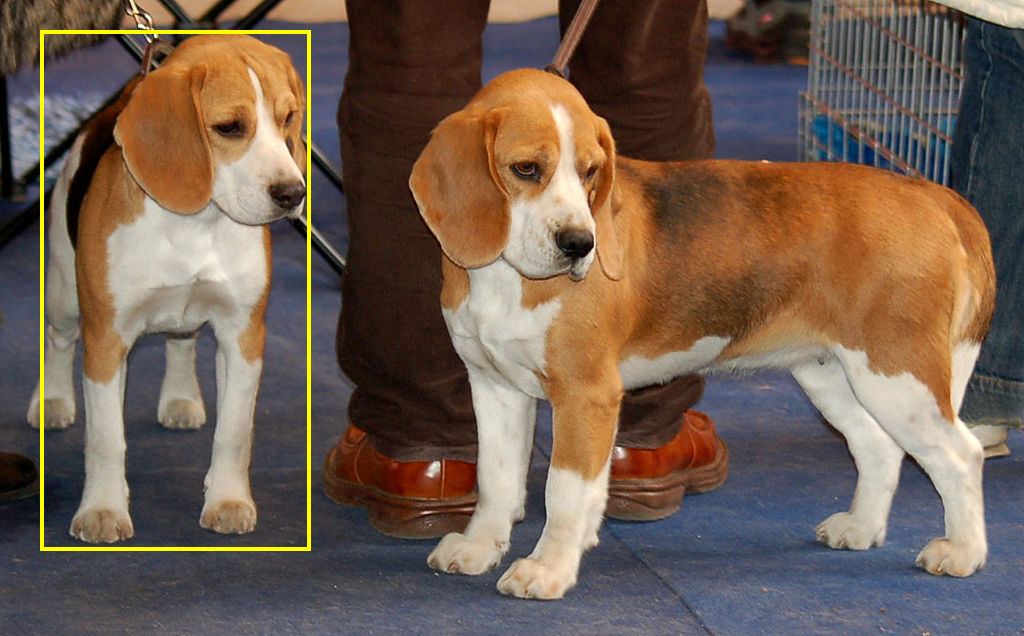
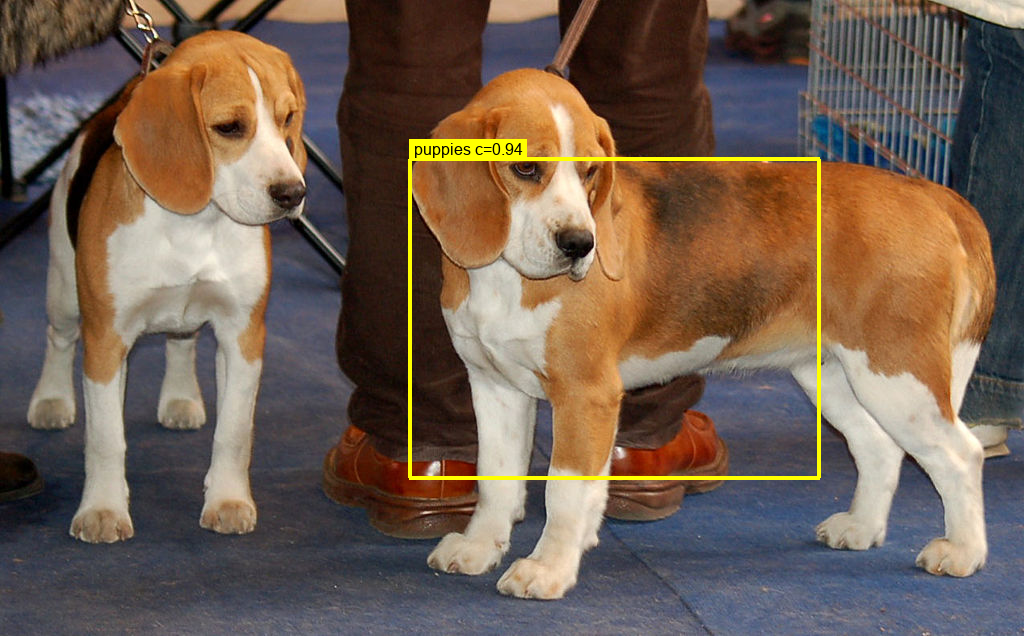
wip

Changed region(s): [[0.0312, 0.0299, 0.3125, 0.8664], [0.375, 0.2091, 0.8125, 0.7767]]

diff --git a/playground/visualization_utils_test.py b/playground/visualization_utils_test.py
@@ -18,11 +18,13 @@ import logging
 import os
 
 import numpy as np
-import PIL.Image as Image
+#import PIL.Image as Image
 import tensorflow as tf
 
-from object_detection.core import standard_fields as fields
-from object_detection.utils import visualization_utils
+#from object_detection.core import standard_fields as fields
+#from object_detection.utils import visualization_utils
+
+import visualization_utils
 
 #_TESTDATA_PATH = 'object_detection/test_images'
 _TESTDATA_PATH = '.'
@@ -48,9 +50,6 @@ class VisualizationUtilsTest(tf.test.TestCase):
     imu = np.concatenate((imr, img), axis=1)
     imd = np.concatenate((imb, imw), axis=1)
     image = np.concatenate((imu, imd), axis=0)
-
-
-
     return image
 
   def create_test_image_with_five_channels(self):
@@ -306,19 +305,39 @@ class VisualizationUtilsTest(tf.test.TestCase):
 
 
 if __name__ == '__main__':
+
     from PIL import Image, ImageFont, ImageDraw, ImageEnhance
+    from subprocess import Popen, PIPE
 
     file_name = "image1.jpg"
     print("reading", file_name)
-    source_img = Image.open(file_name).convert("RGB")
+    img = Image.open(file_name).convert("RGB")
 
-    draw = ImageDraw.Draw(source_img)
+    # draw = ImageDraw.Draw(img)
+    # draw.rectangle(((40, 30), (310, 550)), outline="yellow", width=4)
+    # draw.text((40, 5), "puppies", font=ImageFont.truetype("Arial", 24))
 
-    draw.rectangle(((40, 30), (310, 550)), outline="yellow", width=4)
-    # draw.text((20, 70), "something123", font=ImageFont.truetype("font_path123"))
-    #
+    #test_image = create_colorful_test_image()
+    #test_image = Image.fromarray(test_image)
+
+    width_original, height_original = img.size
+
+    ymin = 0.25
+    ymax = 0.75
+
+    xmin = 0.4
+    xmax = 0.8
+
+    visualization_utils.draw_bounding_box_on_image(img, ymin, xmin, ymax, xmax,
+       display_str_list=[" puppies c=0.94 "])
+
     out_file = "image1.png"
     print("writing", out_file)
-    source_img.save(out_file, "PNG")
+    img.save(out_file, "PNG")
+    Popen(['open', out_file])
+
 
   #tf.test.main()
+
+    # process = Popen(['open', out_file], stdout=PIPE, stderr=PIPE)
+    # stdout, stderr = process.communicate()

diff --git a/playground/visualization_utils.py b/playground/visualization_utils.py
@@ -135,7 +135,7 @@ def draw_bounding_box_on_image(image,
                                xmin,
                                ymax,
                                xmax,
-                               color='red',
+                               color='yellow',
                                thickness=4,
                                display_str_list=(),
                                use_normalized_coordinates=True):
@@ -170,10 +170,12 @@ def draw_bounding_box_on_image(image,
                                   ymin * im_height, ymax * im_height)
   else:
     (left, right, top, bottom) = (xmin, xmax, ymin, ymax)
+
   draw.line([(left, top), (left, bottom), (right, bottom),
              (right, top), (left, top)], width=thickness, fill=color)
+
   try:
-    font = ImageFont.truetype('arial.ttf', 24)
+    font = ImageFont.truetype('Arial', 16)      # replace arial.ttf with Arial
   except IOError:
     font = ImageFont.load_default()
 
